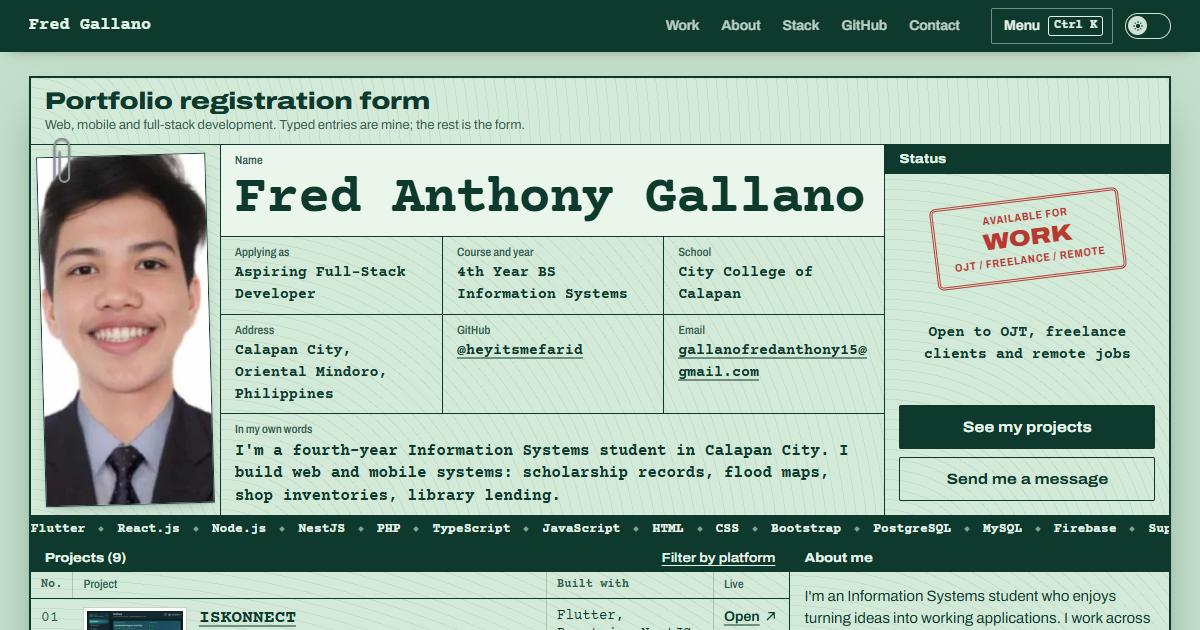
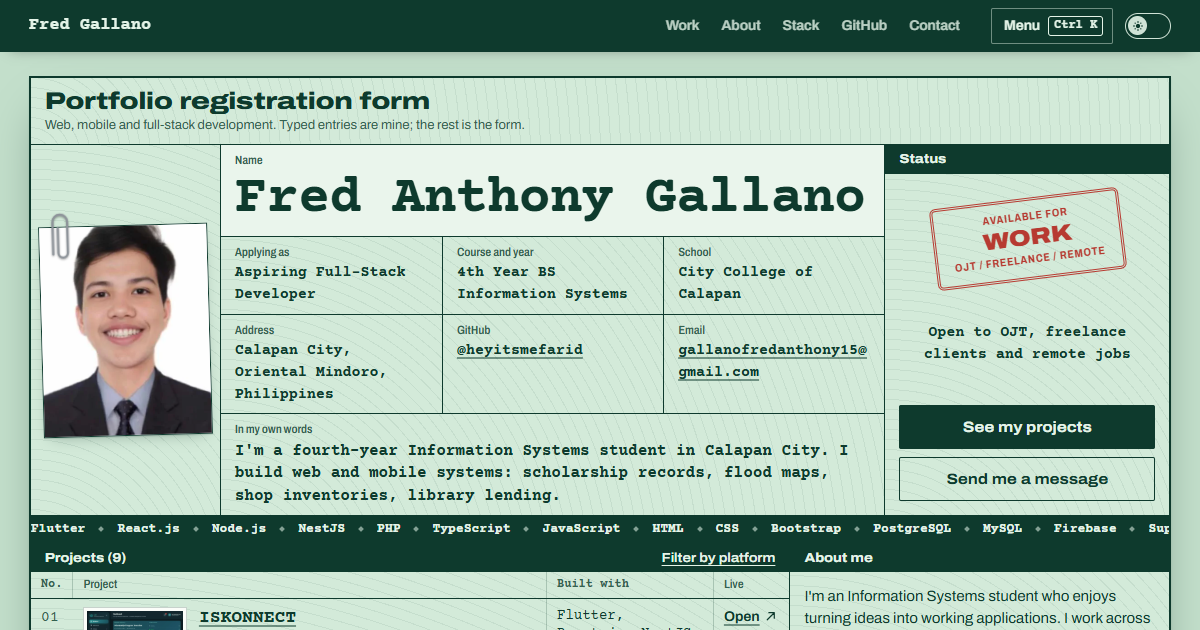
Drop the walkthrough video, fix the photo size, add the n8n certificate
- Remove the walkthrough video cell; the projects table now sits beside
  About and Tech stack.
- Keep the ID photo at 4:5 at every width instead of stretching to the
  height of the cells beside it. On phones it sits beside the form title.
  The paperclip is attached to the photo itself.
- Add the n8n Quickstart certificate (n8n Academy, Oct 2026).
- Status covers OJT, freelance clients and remote jobs.
- Remove the stack tallies, the hover preview in the projects table and the
  red badge colour.
- check:home now also checks the photo shape and a 412px phone width.

Changed region(s): [[0.0308, 0.2111, 0.185, 0.8143]]

diff --git a/src/styles/layout.css b/src/styles/layout.css
@@ -19,11 +19,10 @@
       'ticker ticker ticker ticker ticker ticker ticker ticker ticker ticker ticker ticker'
       'projects projects projects projects projects projects projects projects about about about about'
       'projects projects projects projects projects projects projects projects stack stack stack stack'
-      'projects projects projects projects projects projects projects projects reel reel reel reel'
       'experience experience experience education education education certs certs certs contact contact contact'
       'github github github github github github github github github github github github'
       'sign sign sign sign sign sign sign sign sign sign sign sign';
-    grid-template-rows: auto auto auto auto auto 1fr auto auto auto;
+    grid-template-rows: auto auto auto auto 1fr auto auto auto;
   }
 
   .form--home .cell--mast { grid-area: mast; }
@@ -39,7 +38,6 @@
   .form--home .cell--certifications { grid-area: certs; }
   .form--home .cell--contact { grid-area: contact; }
   .form--home .cell--github { grid-area: github; }
-  .form--home .cell--reel { grid-area: reel; }
   .form--home .cell--sign { grid-area: sign; }
 }
 
@@ -71,20 +69,21 @@
 
 /* Phones: one cell per row, but the cells stay compact inside */
 @media (max-width: 640px) {
-  .form--home .cell--photo {
-    grid-column: span 4;
+  /* The photo box sits in the form's top corner, beside the title */
+  .form--home .cell--mast {
+    order: -3;
+    grid-column: span 8;
+    align-content: center;
   }
 
-  .form--home .cell--status {
-    grid-column: span 8;
+  .form--home .cell--photo {
+    order: -2;
+    grid-column: span 4;
+    padding: 8px;
   }
 
   .form--home .cell--info {
     order: -1;
-  }
-
-  .form--home .cell--mast {
-    order: -2;
   }
 
   .stamp__big {
@@ -279,24 +278,6 @@
   padding-inline: 8px;
 }
 
-/* ── Walkthrough ──────────────────────────────────────────────────────── */
-.portfolio-reel {
-  display: flex;
-  flex-direction: column;
-}
-
-.portfolio-reel .cell__flush {
-  flex: 1;
-  display: grid;
-  background: #08211a;
-}
-
-.portfolio-reel__video {
-  width: 100%;
-  height: 100%;
-  aspect-ratio: 16 / 9;
-  object-fit: contain;
-}
 
 /* ── Signature line ───────────────────────────────────────────────────── */
 .sign {

diff --git a/src/pages/HomePage.jsx b/src/pages/HomePage.jsx
@@ -8,7 +8,6 @@ import Experience from '../components/Experience.jsx'
 import Education from '../components/Education.jsx'
 import TechStack from '../components/TechStack.jsx'
 import GithubActivity from '../components/GithubActivity.jsx'
-import PortfolioReel from '../components/PortfolioReel.jsx'
 import Certifications from '../components/Certifications.jsx'
 import Connect from '../components/Connect.jsx'
 import SignPad from '../components/SignPad.jsx'
@@ -32,7 +31,6 @@ export default function HomePage({ onContact }) {
       <Certifications />
       <Connect onContact={onContact} />
       <GithubActivity />
-      <PortfolioReel />
       <div className="cell cell--sign sign">
         <p className="blank">
           <span className="blank__value sign__name">{profile.name}</span>

diff --git a/src/components/Hero.css b/src/components/Hero.css
@@ -45,6 +45,8 @@
 /* ── ID photo box ─────────────────────────────────────────────────────── */
 .cell--photo {
   display: grid;
+  /* the photo keeps its shape; the box around it can be taller */
+  align-content: center;
   padding: 10px;
 }
 
@@ -57,7 +59,7 @@
 
 .idphoto img {
   width: 100%;
-  height: 100%;
+  height: auto;
   aspect-ratio: 4 / 5;
   object-fit: cover;
   object-position: 50% 15%;
@@ -275,8 +277,9 @@
 
 .paperclip {
   position: absolute;
-  top: -9px;
-  left: 22px;
+  z-index: 1;
+  top: -16px;
+  left: 12px;
   width: 22px;
   max-width: none;
   overflow: visible;

diff --git a/src/components/Portrait.jsx b/src/components/Portrait.jsx
@@ -1,7 +1,10 @@
-// The ID photo box in the corner of the form.
+// The ID photo, held to the form by a paperclip.
 export default function Portrait({ photo }) {
   return (
     <figure className="idphoto">
+      <svg className="paperclip" viewBox="0 0 30 76" aria-hidden="true">
+        <path d="M9 22v34a6.5 6.5 0 0 0 13 0V14a10 10 0 0 0-20 0v44" />
+      </svg>
       <img src={photo.src} alt={photo.alt} width={photo.width} height={photo.height} fetchPriority="high" />
     </figure>
   )

diff --git a/src/components/Hero.jsx b/src/components/Hero.jsx
@@ -34,9 +34,6 @@ export default function Hero({ onContact }) {
       {photo && (
         <div className="cell cell--photo">
           <Portrait photo={photo} />
-          <svg className="paperclip" viewBox="0 0 30 76" aria-hidden="true">
-            <path d="M9 22v34a6.5 6.5 0 0 0 13 0V14a10 10 0 0 0-20 0v44" />
-          </svg>
         </div>
       )}
 

diff --git a/src/data/certifications.js b/src/data/certifications.js
@@ -35,4 +35,12 @@ export const certifications = [
     year: 'Apr 2026',
     url: '/certificates/ms-cybersecurity.webp',
   },
+  {
+    id: 'n8n-quickstart',
+    name: 'n8n Quickstart',
+    kind: 'Certificate of completion',
+    issuer: 'n8n Academy',
+    year: 'Oct 2026',
+    url: '/certificates/n8n-quickstart.webp',
+  },
 ]

diff --git a/DESIGN.md b/DESIGN.md
@@ -47,8 +47,8 @@ the rubber stamps.
   (`.cell__title`) and a body (`.cell__body`, or `flush` for tables and media).
 - `.blank` is a labelled blank: `.blank__label` over `.blank__value`.
 - `src/styles/layout.css` places the home cells with `grid-template-areas`:
-  photo, details and status across the top; the projects table beside About,
-  Tech stack and the walkthrough; Experience, Education, Certifications and
+  photo, details and status across the top; the projects table beside About
+  and Tech stack; Experience, Education, Certifications and
   Contact in four columns; GitHub full width; a signature line.
 - 641–1080px: cells pair up two per row. ≤640px: one cell per row, cells stay
   dense inside (two-column blanks, table drops columns via container queries).
